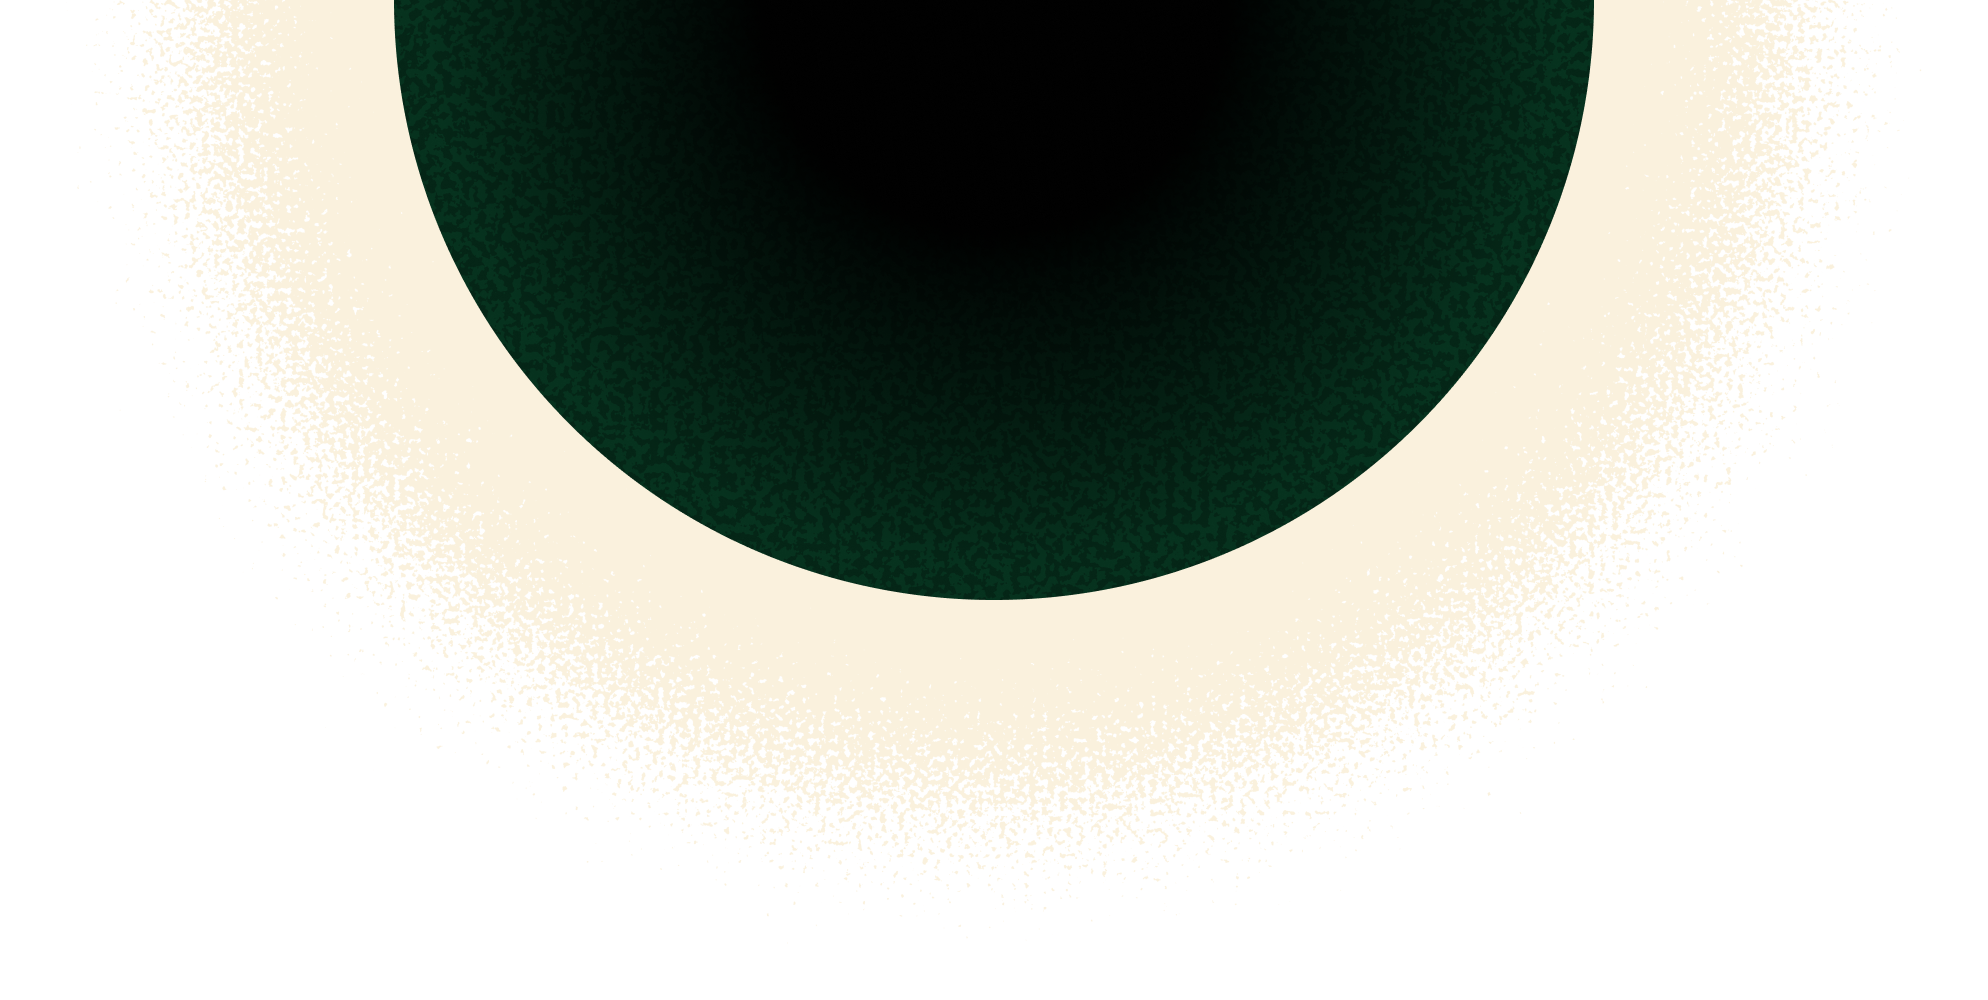
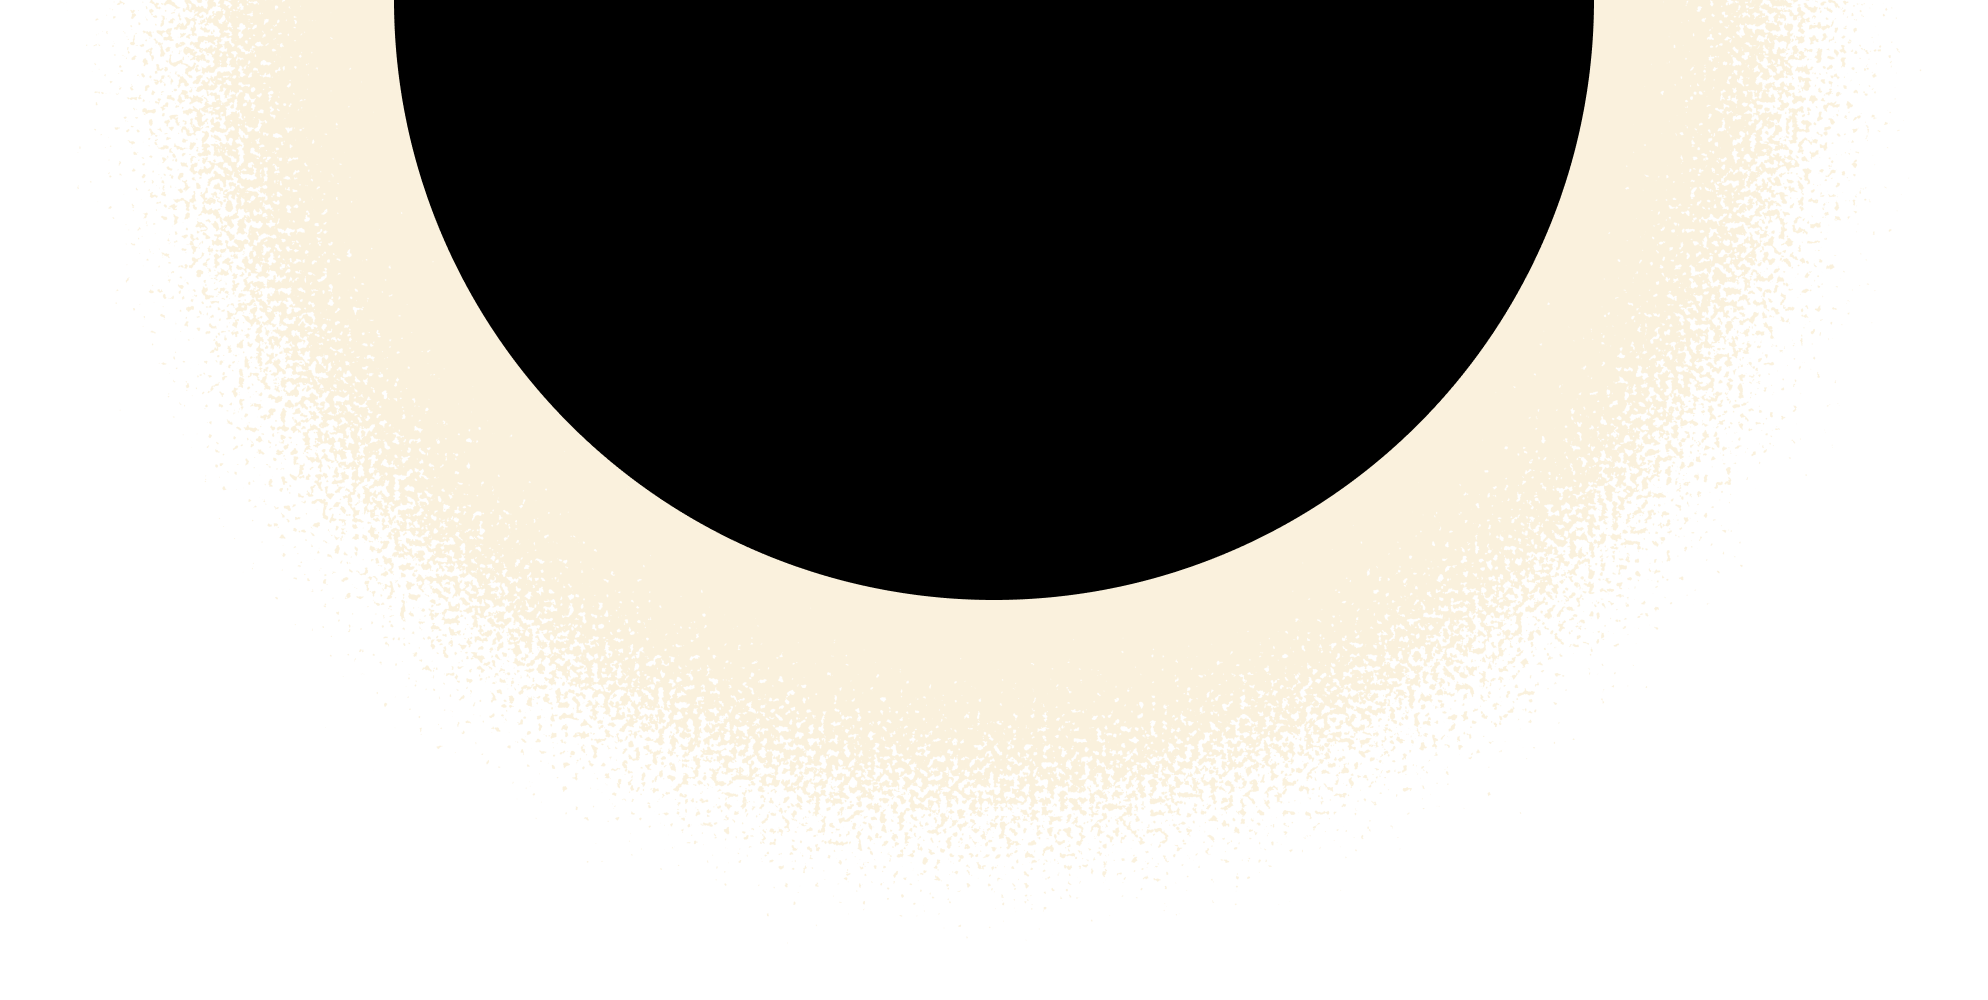
more tweaking for colors and details

Changed region(s): [[0.1871, 0.0, 0.8109, 0.62]]

diff --git a/app/layouts/default.vue b/app/layouts/default.vue
@@ -1,4 +1,6 @@
 <script setup lang="ts">
+import PlanetSvg from '~/assets/icons/planet.svg?skipsvgo';
+
 const config = useRuntimeConfig()
 const baseURL = config.app.baseURL
 const route = useRoute()
@@ -74,10 +76,13 @@ function onNavMouseLeave() {
     <!-- Planet (centered, outside border) -->
     <div class="absolute left-1/2 -translate-x-1/2 top-0 w-[50vw] md:w-[30vw] max-w-[32rem] px-4 z-10">
       <div class="relative">
-        <img :src="`${baseURL}planet.png`" alt="Planet" class="w-full object-contain" />
+        <div class="overflow-hidden">
+          <PlanetSvg class="w-full" style="margin-top: var(--planet-offset)" />
+        </div>
+        <div class="planet-glow"></div>
 
         <!-- Section Icon Overlay -->
-        <div class="absolute left-1/2 -translate-x-1/2 text-white" style="top: 20%">
+        <div class="absolute left-1/2 -translate-x-1/2 text-white" style="top: var(--planet-icon-top)">
           <!-- Home -->
           <svg v-if="currentSection === 'home'" class="w-6 h-6" viewBox="0 0 37 40" fill="none">
             <path d="M3.5 23.5V18.5C3.5 10.2157 10.2157 3.5 18.5 3.5C26.7843 3.5 33.5 10.2157 33.5 18.5V23.5" stroke="currentColor" stroke-width="7" stroke-linecap="round"/>
@@ -174,11 +179,11 @@ function onNavMouseLeave() {
       </div>
     </div>
 
-    <div class="min-h-screen bg-[#f3ebda] rounded-xl relative overflow-hidden">
+    <div class="min-h-screen bg-[var(--bg)] rounded-xl relative overflow-hidden">
       <!-- Fixed Bottom Menu (Desktop) -->
       <div
         ref="menuRef"
-        class="hidden lg:flex fixed left-1/2 -translate-x-1/2 bottom-8 flex-row gap-4 bg-[var(--accent-dark)] rounded-full px-6 py-2 z-50 overflow-hidden"
+        class="hidden lg:flex fixed left-1/2 -translate-x-1/2 bottom-8 flex-row gap-4 bg-[var(--accent-dark)] rounded-full px-4 py-1 z-50 overflow-hidden"
         @mousemove="onMenuMouseMove"
         @mouseleave="onMenuMouseLeave"
       >
@@ -298,7 +303,7 @@ function onNavMouseLeave() {
 }
 
 .nav-icon-active {
-  color: var(--accent);
+  color: var(--accent-light);
 }
 
 .nav-glow {
@@ -341,9 +346,22 @@ function onNavMouseLeave() {
   transition: opacity var(--glow-fade-duration);
 }
 
-.logo-glow {
+.planet-glow {
   position: absolute;
-  top: -90px;
+  top: -40%;
+  right: 10%;
+  width: 120px;
+  height: 120px;
+  border-radius: 9999px;
+  background: var(--accent-super-light);
+  filter: blur(60px);
+  pointer-events: none;
+}
+
+.logo-glow {
+  display: none;
+  position: absolute;
+  top: -150px;
   left: 50%;
   transform: translate(-50%, -50%);
   width: 160px;
@@ -353,6 +371,12 @@ function onNavMouseLeave() {
   filter: blur(60px);
   z-index: -1;
   pointer-events: none;
+}
+
+@media (min-width: 768px) {
+  .logo-glow {
+    display: block;
+  }
 }
 
 /*
@@ -380,6 +404,7 @@ function onNavMouseLeave() {
   background-color: var(--accent);
   border-radius: 50%;
   transform: translate(-50%, -50%);
+  box-shadow: 0 0 6px 3px color-mix(in srgb, var(--bg) var(--planet-shadow-opacity), transparent);
 }
 
 .small-planet.big {

diff --git a/app/app.vue b/app/app.vue
@@ -10,13 +10,21 @@
 <style>
 :root {
   --accent: hwb(153 2% 80%);
-  --accent-dark: hwb(153 2% 85%);
-  --accent-light: hwb(153 2% 30%);
-  --accent-super-light: hwb(153 2% 16%);
+  /* --accent: hwb(256 6% 60%); */
+  --accent-dark: hwb(from var(--accent) h w 85%);
+  --accent-light: hwb(from var(--accent) h w 60%);
+  --accent-super-light: hwb(from var(--accent) h w 16%);
+
   --menu-glow-opacity: 0.5;
   --nav-glow-size: 40px;
   --nav-glow-opacity: 0.6;
   --glow-fade-duration: 1.5s;
+  --bg: #f3ebda;
+  --planet-ring-inner: white;
+  --planet-ring-outer: var(--bg);
+  --planet-shadow-opacity: 70%;
+  --planet-offset: -25%;
+  --planet-icon-top: 17%;
 }
 
 body {
